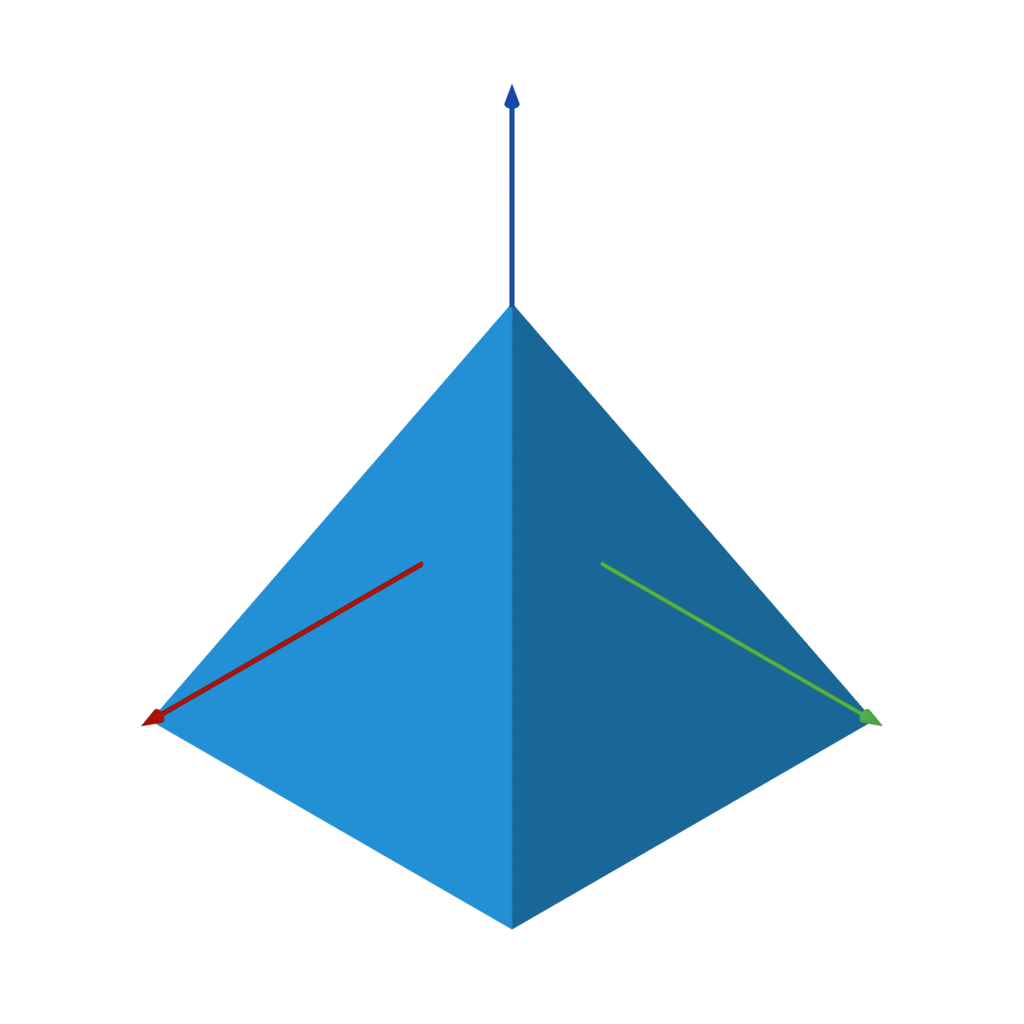
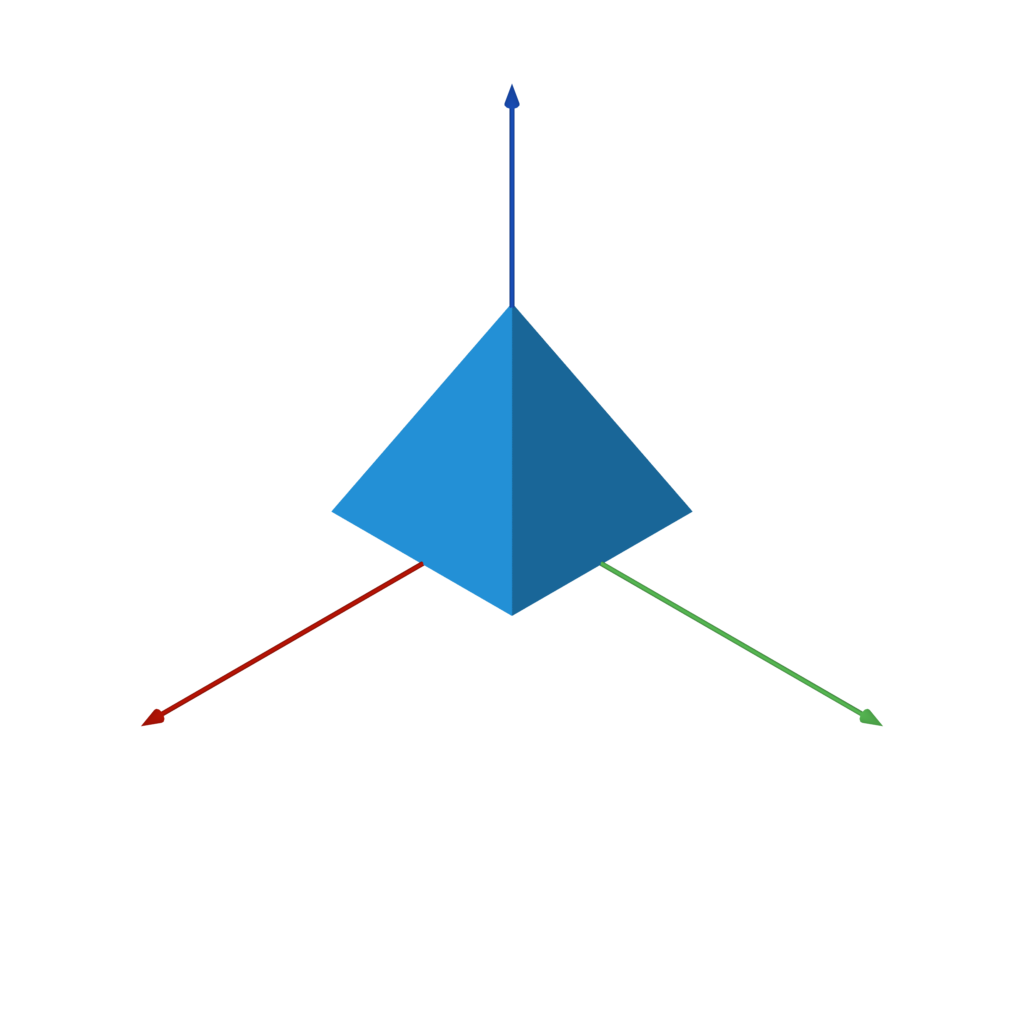
images

Changed region(s): [[0.1562, 0.5, 0.8438, 0.9062]]

diff --git a/examples/pawn.py b/examples/pawn.py
@@ -1,0 +1,16 @@
+from sdf import *
+
+def section(z0, z1, d0, d1, e=ease.linear):
+    f = cylinder(d0/2).transition(
+        cylinder(d1/2), Z * z0, Z * z1, e)
+    return f & slab(z0=z0, z1=z1)
+
+f = section(0, 0.2, 1, 1.25)
+f |= section(0.2, 0.3, 1.25, 1).k(0.05)
+f |= rounded_cylinder(0.6, 0.1, 0.2).translate(Z * 0.4).k(0.05)
+f |= section(0.5, 1.75, 1, 0.25, ease.out_quad).k(0.01)
+f |= section(1.75, 1.85, 0.25, 0.5).k(0.01)
+f |= section(1.85, 1.90, 0.5, 0.25).k(0.05)
+f |= sphere(0.3).translate(Z * 2.15).k(0.05)
+
+f.save('pawn.stl', samples=2**26)

diff --git a/docs/render.go b/docs/render.go
@@ -48,8 +48,12 @@ func main() {
 		log.Fatal(err)
 	}
 
-	// fit mesh in a bi-unit cube centered at the origin
-	mesh.BiUnitCube()
+	// scale mesh to fit in a bi-unit cube centered at the origin
+	// but do not translate it
+	box := mesh.BoundingBox()
+	h := box.Max.Abs().Max(box.Min.Abs())
+	s := V(1, 1, 1).Div(h).MinComponent()
+	mesh.Transform(Scale(V(s, s, s)))
 
 	// create rendering context
 	context := NewContext(width*aa, height*aa)

diff --git a/docs/render.py b/docs/render.py
@@ -85,3 +85,14 @@ generate(f, 'dodecahedron')
 f = icosahedron(1)
 generate(f, 'icosahedron')
 
+# plane(normal=UP, point=ORIGIN)
+f = sphere() & plane()
+generate(f, 'plane')
+
+# slab(x0=None, y0=None, z0=None, x1=None, y1=None, z1=None, k=None)
+f = sphere() & slab(z0=-0.5, z1=0.5, x0=0)
+generate(f, 'slab')
+
+# cylinder(radius)
+f = sphere() - cylinder(0.5)
+generate(f, 'cylinder')
